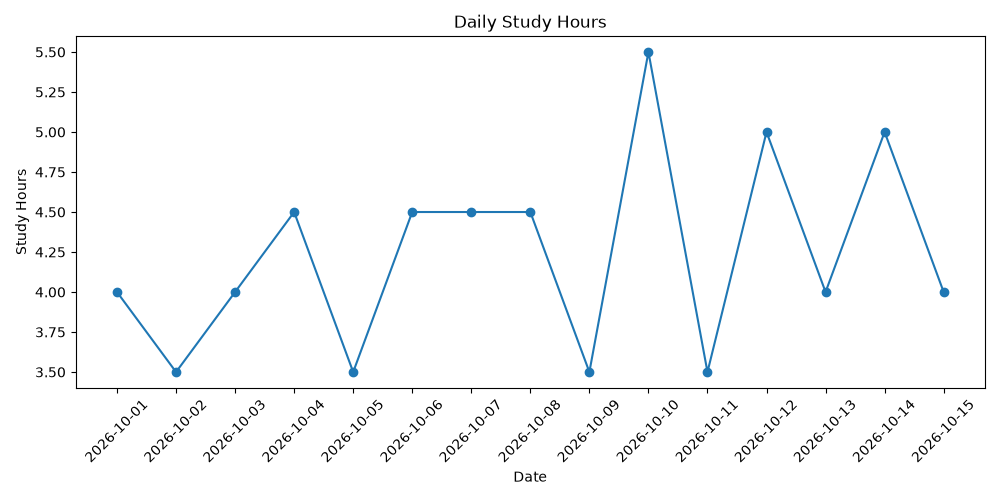
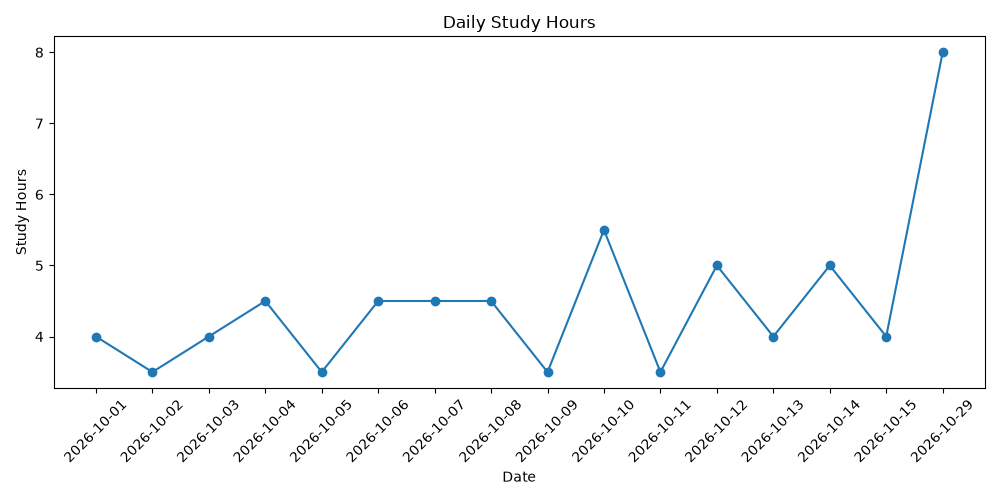
make it interactive in the terminal

diff --git a/analyze.py b/analyze.py
@@ -1,8 +1,11 @@
 import csv
 from pathlib import Path
+import matplotlib
+matplotlib.use("Agg")
 import matplotlib.pyplot as plt
-from datetime import date, timedelta
+from datetime import date, datetime, timedelta
 import math
+
 
 def load_study_data(filename):
     """Read the study data from a CSV file."""
@@ -211,36 +214,150 @@ def plot_weekly_progress(study_data, output_dir, weekly_goal=20):
     plt.savefig(output_dir / "weekly_study_progress.png")
     plt.close()
 
+def save_study_session(filename, session):
+    """Append a session without overwriting existing records."""
+    filename = Path(filename)
+    needs_header = not filename.exists() or filename.stat().st_size == 0
 
-if __name__ == "__main__":
-    filename = "study_data.csv"
-    study_data = load_study_data(filename)
+    # Ensure the new record starts on its own line.
+    needs_newline = False
+    if not needs_header:
+        with open(filename, "rb") as file:
+            file.seek(-1, 2)
+            needs_newline = file.read(1) not in (b"\n", b"\r")
+
+    with open(filename, "a", newline="", encoding="utf-8") as file:
+        if needs_newline:
+            file.write("\n")
+
+        writer = csv.DictWriter(file, fieldnames=["date", "course", "hours"])
+
+        if needs_header:
+            writer.writeheader()
+
+        writer.writerow(session)
+
+
+def add_study_session(filename):
+    """Ask for a study session, validate it, and save it."""
+    while True:
+        date_input = input(
+            "Date (YYYY-MM-DD, Enter for today): "
+        ).strip()
+
+        if not date_input:
+            session_date = date.today().isoformat()
+            break
+
+        try:
+            parsed_date = datetime.strptime(date_input, "%Y-%m-%d").date()
+
+            if parsed_date.isoformat() != date_input:
+                raise ValueError
+
+            session_date = parsed_date.isoformat()
+            break
+        except ValueError:
+            print("Enter a valid date using YYYY-MM-DD.")
+
+    while True:
+        course = input("Course: ").strip()
+
+        if course:
+            break
+
+        print("Course cannot be blank.")
+
+    while True:
+        try:
+            hours = float(input("Hours studied: ").strip())
+
+            if not math.isfinite(hours) or hours <= 0:
+                raise ValueError
+
+            break
+        except ValueError:
+            print("Enter a positive number, such as 1.5.")
+
+    session = {
+        "date": session_date,
+        "course": course,
+        "hours": hours,
+    }
+
+    try:
+        save_study_session(filename, session)
+    except OSError as error:
+        print(f"Could not save session: {error}")
+        return
+
+    print(f"\nSession saved: {session_date}, {course}, {hours:g} hours")
+
+
+def show_analytics(filename, chart_dir, weekly_goal=20):
+    """Read the latest CSV data and display analytics and charts."""
+    try:
+        study_data = load_study_data(filename)
+    except FileNotFoundError:
+        print("\nNo study data found. Add your first session!")
+        return
+
+    if not study_data:
+        print("\nNo study sessions recorded. Add your first session!")
+        return
 
     total_hours = calculate_total_hours(study_data)
-    print(f"Total study hours: {total_hours}")
+    print(f"\nTotal study hours: {total_hours:.2f}")
 
     course_hours = hours_per_course(study_data)
-    print("Study hours per course:")
+    print("\nStudy hours per course:")
+
     for course, hours in course_hours.items():
-        print(f"{course}: {hours} hours")
+        print(f"{course}: {hours:g} hours")
 
     most_studied, hours = most_studied_course(course_hours)
+
     if most_studied:
-        print(f"Most studied course: {most_studied} with {hours} hours")
-    else:
-        print("No courses found.")
+        print(f"\nMost studied course: {most_studied} with {hours:g} hours")
 
     average_hours = average_daily_hours(study_data)
     print(f"Average daily study hours: {average_hours:.2f}")
 
-    weekly_goal = 20
     print_weekly_summary(study_data, weekly_goal)
 
-    chart_dir = Path(__file__).resolve().parent / "charts"
     chart_dir.mkdir(exist_ok=True)
 
     plot_hours_per_course(study_data, chart_dir)
     plot_daily_hours(study_data, chart_dir)
     plot_weekly_progress(study_data, chart_dir, weekly_goal)
-    print("\nCharts saved successfully!")
+
+    print(f"\nCharts saved in: {chart_dir}")
+
+if __name__ == "__main__":
+    project_dir = Path(__file__).resolve().parent
+    filename = project_dir / "study_data.csv"
+    chart_dir = project_dir / "charts"
+    weekly_goal = 20
+
+    try:
+        while True:
+            print("\n===== STUDY ANALYZER =====")
+            print("1. View analytics and charts")
+            print("2. Add a study session")
+            print("3. Exit")
+
+            choice = input("\nChoose an option: ").strip()
+
+            if choice == "1":
+                show_analytics(filename, chart_dir, weekly_goal)
+            elif choice == "2":
+                add_study_session(filename)
+            elif choice == "3":
+                print("Goodbye!")
+                break
+            else:
+                print("Please choose 1, 2, or 3.")
+
+    except (KeyboardInterrupt, EOFError):
+        print("\nGoodbye!")
 
